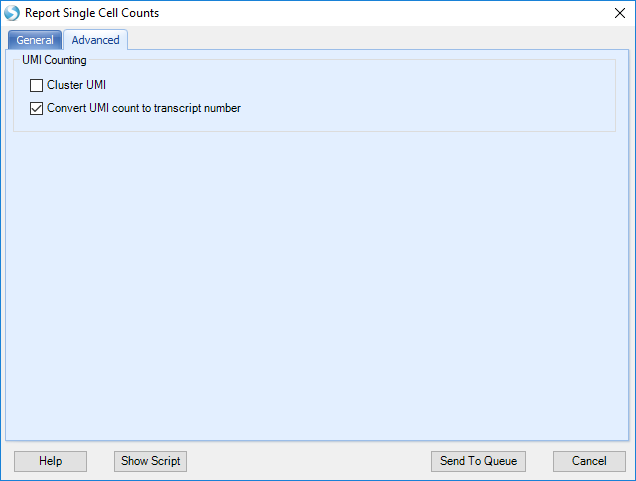
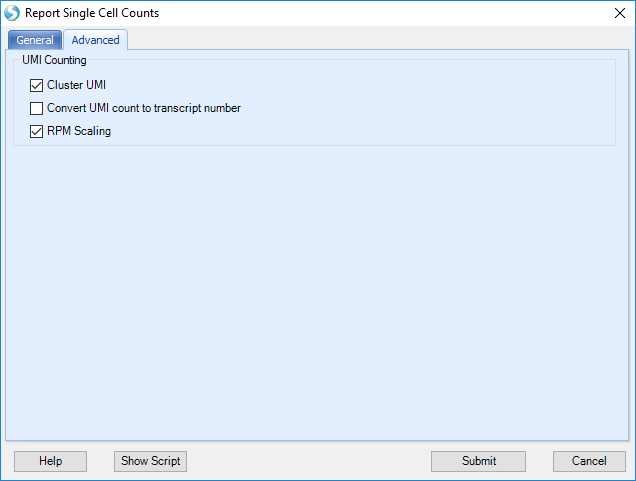
12042018

Changed region(s): [[0.0299, 0.2495, 0.1792, 0.3119], [0.6871, 0.9356, 0.8066, 0.9667]]

diff --git a/site/tutorials/scRNAseq/scRNASeq_Quantification/index.html b/site/tutorials/scRNAseq/scRNASeq_Quantification/index.html
@@ -3275,25 +3275,28 @@
 <h2 id="report-barcoded-bam-counts">Report Barcoded BAM Counts<a class="headerlink" href="#report-barcoded-bam-counts" title="Permanent link">&para;</a></h2>
 <p>For single cell sequencing data analysis, one of the most important parts is to get the transcript count for each cell, and this module in ArrayStudio can be accessed by going to Analysis | NGS | Single Cell RNA-Seq | Barcoded BAM Based Counting:</p>
 <p><img alt="BarcodedBAMBasedCount" src="../images/Barcoded_BAM_Counting.png" /></p>
-<p>This module will quantify unique UMI counts for each gene from the BAM files. Optionally, if the user would like to completely remove the duplicates from the BAM file, they can use the Remove Duplicates function <img alt="here" src="../AdditionalOptions/" /></p>
+<p>This module will quantify unique UMI counts for each gene from the BAM files. Optionally, if the user would like to completely remove the duplicates from the BAM file, they can use the Remove Duplicates function <a href="../AdditionalOptions/">here</a></p>
 <p>This window will be similar to the normal RNASeq quantification, user can leave all the settings on the left as default. For the Options on the right section, <strong>Gene model</strong> and <strong>Cell barcode tag</strong> will be automatically assigned based on the bam file information; User can modify the setting for <strong>Cell count safe harbor</strong> - this parameter will filter for cells that have at least the specified number of genes represented. For UMI studies, as shown for the <a href="../QC of Aligned Data/">AlignQC</a> step, we recommend using 250 as a safe harbor.  </p>
 <p>Leave settings as default and specify <strong>Job Number</strong> as the number of processes to run in parallel. Specify the output folder where the results files will be saved, otherwise the files will go the project folder by default.</p>
 <p><img alt="ReportSingleCellCounts" src="../images/quantification.png" /></p>
-<p>On the Advanced tab, there are two additional options for UMI counting:</p>
+<p>On the Advanced tab, there are three additional options for UMI counting:</p>
 <p><img alt="ReportSingleCellCountsAdvance" src="../images/Report_SingleCell_Count_Advance.png" /></p>
 <p><strong>Cluster UMI</strong> - Similar to barcode correction performed during pre-processing, sequencing errors in the UMI tags can be corrected using this option. For more details on clustering UMI reads, please see the wiki page here: <a href="http://www.arrayserver.com/wiki/index.php?title=Ngs_ReportSingleCellCounts.pdf#Cluster_UMI">http://www.arrayserver.com/wiki/index.php?title=Ngs_ReportSingleCellCounts.pdf#Cluster_UMI</a></p>
 <p>For both datasets provided for Tutorials by OmicSoft, Cluster UMI can be used.</p>
 <p><strong>Convert UMI count to transcript number</strong> is an option we designed for the correction of “UMI saturation”, please refer to our wiki: <a href="http://www.arrayserver.com/wiki/index.php?title=Ngs_ReportSingleCellCounts.pdf#Convert_UMI_count_to_transcript_number">UMI to Transcript</a> for the detailed explanation. This option is not needed for the 10X dataset analyzed in these tutorials, as they use 10 bp for the UMI tag. However, for the <a href="../Pre-processing/non10XData/">CEL-Seq experiment</a>, the UMI tag is only 4 nucleotides long, leading to possible saturation. In this case, users can use this option to convert UMI counts to account for this saturation.</p>
+<p><strong>RPM Scaling</strong> - this option allows users to normalize cell counts as part of the quantification step (to reads per million). By checking this option, users skip this further processing that is described <a href="../Downstream Analyses of SC Data/#Normalization">here</a>. Please note if running a server project, this step requires ArrayServer version 10.0.1.96 or newer.</p>
 <p>Once the appropriate options are chosen, click <strong>Send To Queue</strong> to submit the job.</p>
 <h2 id="output-files-and-tables">Output files and tables<a class="headerlink" href="#output-files-and-tables" title="Permanent link">&para;</a></h2>
-<p>When the job is done, there will be an -Omic Data object (a *z*ero *i*nflated *b*inary matrix, or ZIM, data object), with a counts table representing all kept cells as columns and all genes as rows.</p>
+<p>When the job is done, there will be an -Omic Data object (a zero inflated binary matrix, or ZIM, data object), with a counts table representing all kept cells as columns and all genes as rows.</p>
 <p><img alt="quant_results" src="../images/quant_results.png" /></p>
-<p>If the user chooses to convert UMI counts to transcript number, there will be two -Omic type data objects: a zero inflated binary matrix (ZIM) data object to store the UMI count, and another MicroArray type data object to store the converted UMI count:</p>
+<p>If the user chooses to convert UMI counts to transcript number, there will be two -Omic data objects: a zero inflated binary matrix (ZIM) data object to store the UMI count, and another MicroArray type data object to store the converted UMI count:</p>
 <p><img alt="SingleCellConvertedCounts" src="../images/SingleCell_Converted_Counts.png" /></p>
 <p>This is the ZIM data object file which has 256 as the maximum UMI count:</p>
 <p><img alt="SingleCellUMICounts" src="../images/SingleCell_UMI_Counts_table.png" /></p>
 <p>And this will be the normal MicroArray type -Omic data which store the converted theoretical UMI count, which has the maximum UMI as 1420:</p>
 <p><img alt="SingleCellUMICounts" src="../images/SingleCell_UMI_Counts_1420.png" /></p>
+<p>If the user chooses to normalize UMI counts to reads per million, an addtional -Omic data object will be generated with each cell normalized to one million counts:</p>
+<p><img alt="RPM_quant" src="../images/RPM_quant.png" /></p>
                 
                   
                 

diff --git a/docs/tutorials/Land Explorer/Explorer/ComparisonExplorer.md b/docs/tutorials/Land Explorer/Explorer/ComparisonExplorer.md
@@ -1,0 +1,63 @@
+# LandExplorer Comparison Explorer
+
+OmicSoft has added an optional Comparison Explorer to the Land Explorer interface. Here users can view a distribution of all comparisons represented within ArrayLands, grouped by disease or tissue, with interactive pie charts and tree blocks that allow users to view and click through to OmicSoft-curated comparison(s) of interest. On this help page, we describe the usage of the Comparison Explorer. Users can navigate to the Comparison Explorer using the Help menu:
+
+![menu_comparison](../images/menu_comparison.png)
+
+## Comparison Explorer
+
+The Comparison Explorer has been designed to allow users to quickly access comparison data of interest. Comparison metadata from multiple lands has been unified to allow users to quickly filter to comparisons of interest and pre-filter a Land to 1) access full comparison results for a comparison of interest, or browse comparison results for a single gene.
+
+![ComparisonExplorerHomePageDetailed](../images/ComparisonExplorerHomePageDetailed.png)
+
+### Filter samples
+
+OmicSoft lands are curated to include key metadata across all Land types (such as OncoLand and DiseaseLand). In the filtering section of the Comparison Explorer, users can filter samples across all lands using comparison- and project-level metadata. If a user would like to filter comparisons on broad areas of focus, comparisons can be filtered by Tissue (i.e. TissueCategory or Tissue) as well as Disease (i.e. DiseaseCategory or DiseaseState). Projects are also curated using the broader "Therapeutic Area" term. On the other hand, if a user has a specific publication or public dataset they would like to search for, the ProjectName and PubMed filters will allow for searching of specific projects.
+
+### Cross-Land Distribution
+
+The distribution view is a common way to visualize how many comparisons are available using the filters selected on the left-hand side of the webpage. The default visualization will be a plot that shows the number of comparisons (ranked from highest to lowest), grouped by Case.DiseaseCategory on the y-axis. To view the distribution grouped by Case.TissueCategory instead, simply click the toggle at the top of the screen.
+
+![toggle](../images/Toggle.png)
+
+In addition, by scrolling over the bars in the plot, users can quickly identify how many comparisons belong to that category (colored by Case.Tissue when grouping by Case.TissueCategory in the image below):
+
+![Count_Tissue](../images/Count_Tissue.png)
+
+### Comparison Pie Charts
+
+The stacked pie charts in the upper right portion of Comparison Explorer allow users to visualize more details about the comparisons filtered to. The inner circle of both pie charts represents the proportion of comparisons reprented by the Land colored. For example, the example below has been filtered by TherapeuticArea of Cardiovascular Disease and the pie charts have been updated to have to colors in the inner circle, representing MouseDisease_B38 and HumanDisease_B37. Scrolling over the circle will reveal the Land represented (the gray portion representing HumanDisease_B37):
+
+![pie_inner](../images/pie_inner.png)
+
+The outer portions of the pie charts represent the Comparison Category (left) and Therapeutic Area (right) represented by each land. Not surprisingly, in the example above, the majority of these are under the Therapeutic Area of Cardiovascular Disease (with some cross-listed in other areas). For this example, there are also a number of Comparison Categories, such as Treatment vs. Control, Disease vs. Normal, Responder vs. Non-responder, etc. Scrolling over each color will show how many of each are found for the corresponding land (inner circle):
+
+![pie_outer](../images/pie_outer.png)
+
+### Land Comparison TreeBlock View
+
+A user can quickly identify which Land(s) the filtered comparisons in with this view belong to. The blocks are sized based on the overall proportion of the comparisons represented in the selected land.
+
+## Interactive Views
+
+Each of the views in the Comparison Explorer are interactive and allow users to quickly visualize additional comparison details at the project level, as well as the gene level within the respective land.
+
+### Browse Comparisons and Volcano Plots
+
+When users click on the bars in the Cross-Land Distribution or Comparison Pie Charts, Comparison Explorer will populate a Comparison Details table. This table can be scrolled up and down and filtered further using the controls at the top of the table:
+
+![browseComparisons](../images/browseComparisons.png)
+
+Also, by clicking on one the comparisons, users can quickly go to the Volcano plot view that will represent the differential expression of all genes in the chosen comparison:
+
+![clickthruvolcano](../images/clickthruvolcano.png)
+
+### Open Land to Gene-level Comparisons view
+
+Within the tree block view, a user can click on a Land and a search window will appear. For example, in the Pie Chart example from above (pre-filtered to TherapeuticArea of Cardiovascular Disease), clicking on the MouseDisease_B38 block at the bottom a search window appears:
+
+![ComparisonTreeSearch](../images/ComparisonTreeSearch.png)
+
+Typing a gene name, such as tbx20, and selecting the Search button will allow a user to open up the [AllComparisons](../Land Views/Gene Level Views/AllComparisons#all-comparisons) view, prefiltered to the Project metadata (Therapeutic Area) using the Comparison Filters:
+
+![filtered_from_treeblock_comparison](../images/filtered_from_treeblock_comparison.png)

diff --git a/docs/tutorials/Land Explorer/Introduction.md b/docs/tutorials/Land Explorer/Introduction.md
@@ -31,6 +31,15 @@ For more information on how the SampleExplorer are configured and used, please v
 
 ![Front_Page](images/FrontPageNirav.png)
 
+### ComparisonExplorer Option
+
+This option allows users to query data across all Lands related to comparisons. For example, the view below shows a distribution of all comparisons represented within ArrayLands, and can be grouped by disease or tissue, with interactive pie charts and tree blocks that allow users to view and click through to OmicSoft-curated comparison(s) of interest.
+
+For more information on how the ComparisonExplorer are configured and used, please visit the ComparisonExplorer [help](./Explorer/ComparisonExplorer.md) menu.
+
+![ComparisonExplorerHomePage](images/ComparisonExplorerHomePage.png)
+
+
 ### Land View Option
 
 If a SampleExplorer option is not defined in Land Explorer, the default view will be a Land View. In this view, the default land chosen by the administrator (TCGA by default) will appear. Users can switch to other Lands by simply clicking **Select Land**:
